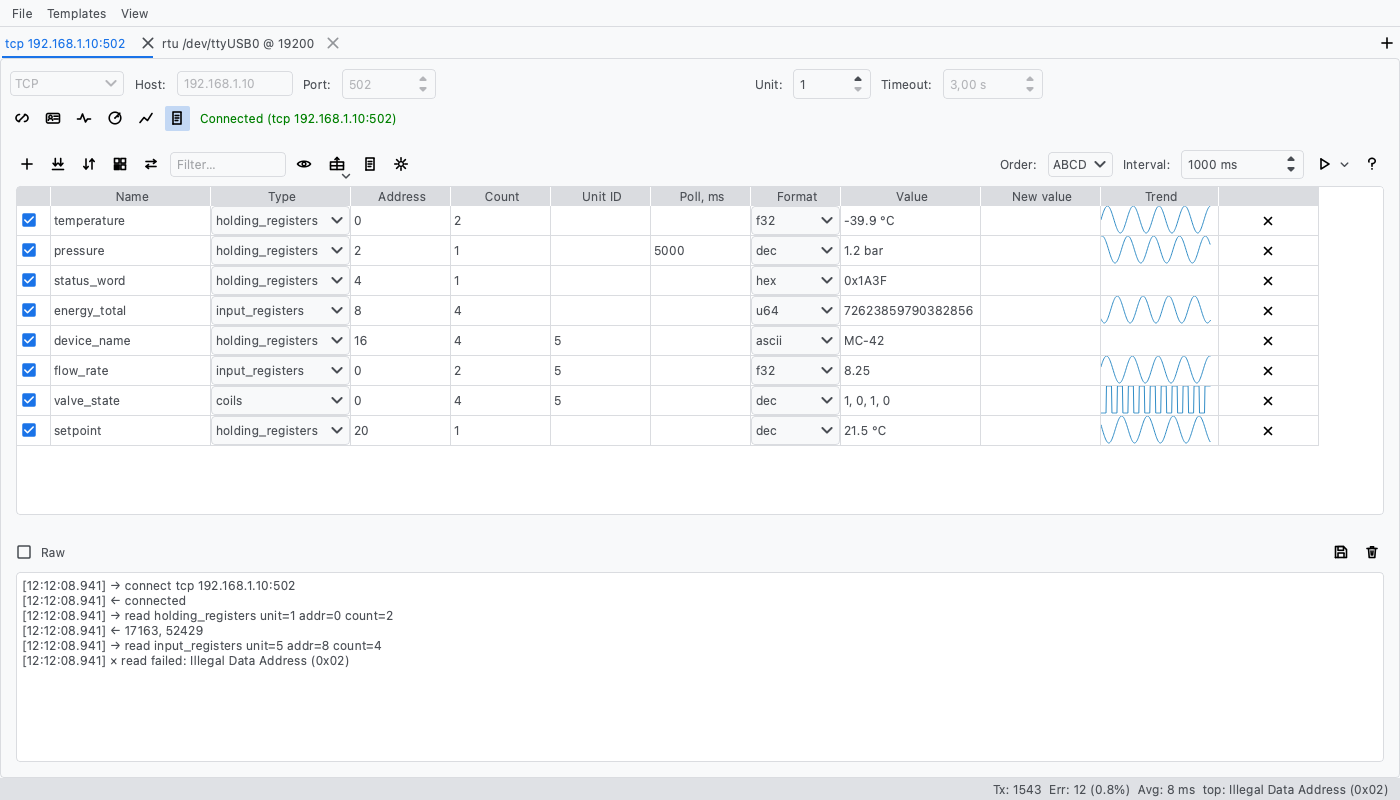
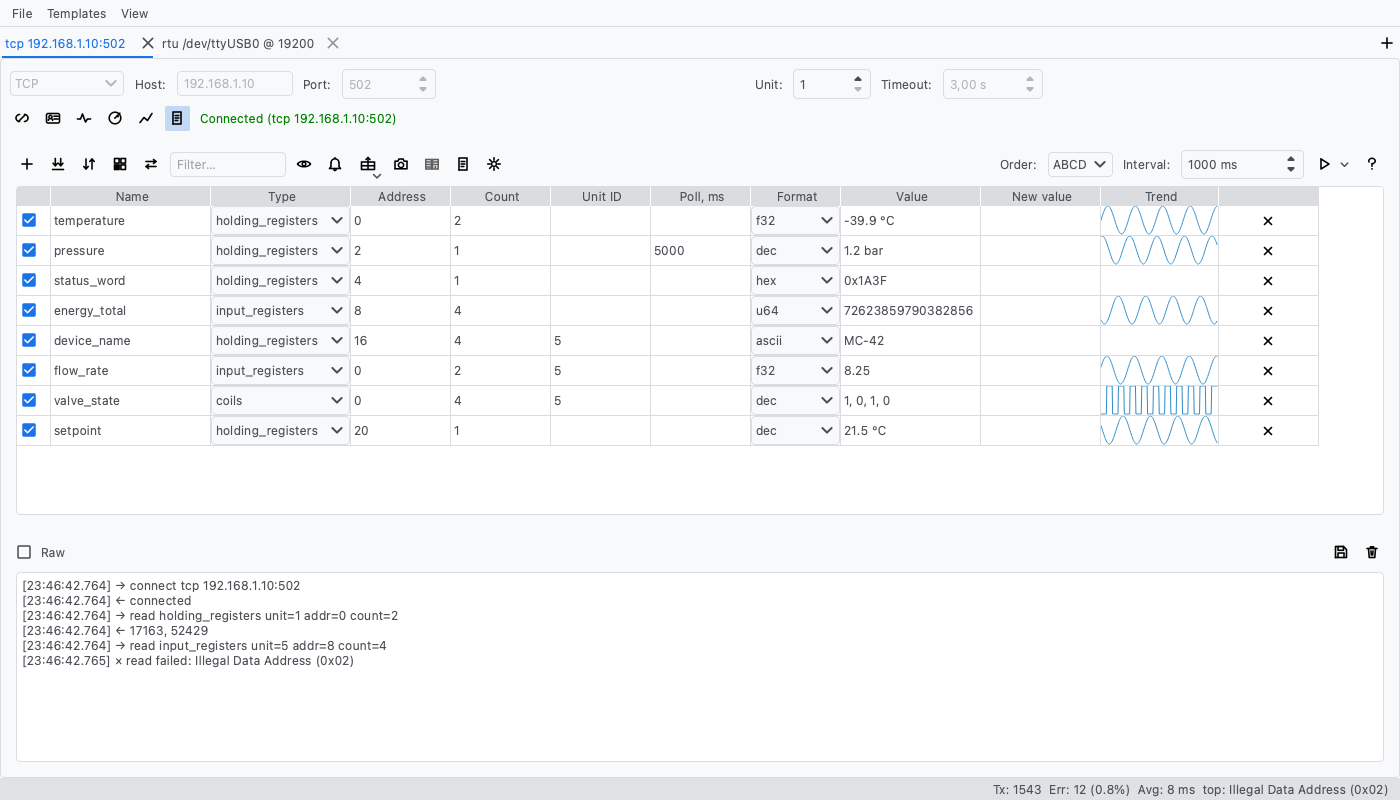
Update docs and screenshots for alarms, poll checkboxes and snapshot diff
Both READMEs: feature bullets for per-row poll checkbox, alarm rules
and snapshot diff (README_ru translation), project layout entries for
alarms_dialog/alarm_sound/snapshot_dialog, new snapshot_diff screenshot
referenced from the screenshots section. Main window screenshots
regenerated with the current toolbar.

diff --git a/README.md b/README.md
@@ -49,6 +49,13 @@ all Modbus logic runs in a separate thread (QThread), so the GUI never freezes.
 - System/Light/Dark theme (pyqtdarktheme) from the View menu — graphs,
   sparklines, status colors and highlights all follow the theme.
 - Filter box and one-click "Sort by address" for large tables.
+- Per-row polling checkbox (leftmost column): unchecked rows are skipped by
+  polling and "Read all" and are hidden from the graph window; manual reads
+  and writes still work.
+- Alarm rules ("Alarms…" button): per-row ordered rules (>, <, >=, <=, ==,
+  !=, in/outside range — first match wins) highlight the value cell in red
+  or yellow, write an event to the log and optionally play a siren sound
+  when a rule starts matching (including escalation to a stricter rule).
 - Snapshot diff ("Snapshot"/"Diff…" buttons): remember the current raw values
   of all rows, then compare them with later reads in a separate window —
   changed rows are highlighted, an "Only differences" filter hides the rest,
@@ -114,6 +121,11 @@ field selection and a per-row checklist (the gear icon next to "Log to file"):
 Address scanner — unit sweep with probes and the register address scan:
 
 ![Scanner](https://raw.githubusercontent.com/cramen/modbus_connector/main/docs/screenshots/scanner.png)
+
+Snapshot diff — capture the current values, read again later and compare;
+changed rows are highlighted:
+
+![Snapshot diff](https://raw.githubusercontent.com/cramen/modbus_connector/main/docs/screenshots/snapshot_diff.png)
 
 ## Requirements
 
@@ -466,7 +478,10 @@ src/modbus_connector/
                        # (gray/green/orange); Device ID…/Diagnostics… dialogs
   registers_panel.py   # register table: per-row unit/poll/format/order/scaling,
                        # change highlighting, filter/sort, Enter = write,
-                       # Mask write…/Read/Write… dialogs, snapshot diff
+                       # Mask write…/Read/Write… dialogs, alarm rules,
+                       # snapshot diff
+  alarms_dialog.py     # per-row alarm rule editor (condition, color, log, sound)
+  alarm_sound.py       # alarm siren: generated two-tone WAV + QSoundEffect
   snapshot_dialog.py   # non-modal window comparing a value snapshot with
                        # current reads (highlighted differences)
   scanner_panel.py     # unit scanner + register address scan (separate window)
